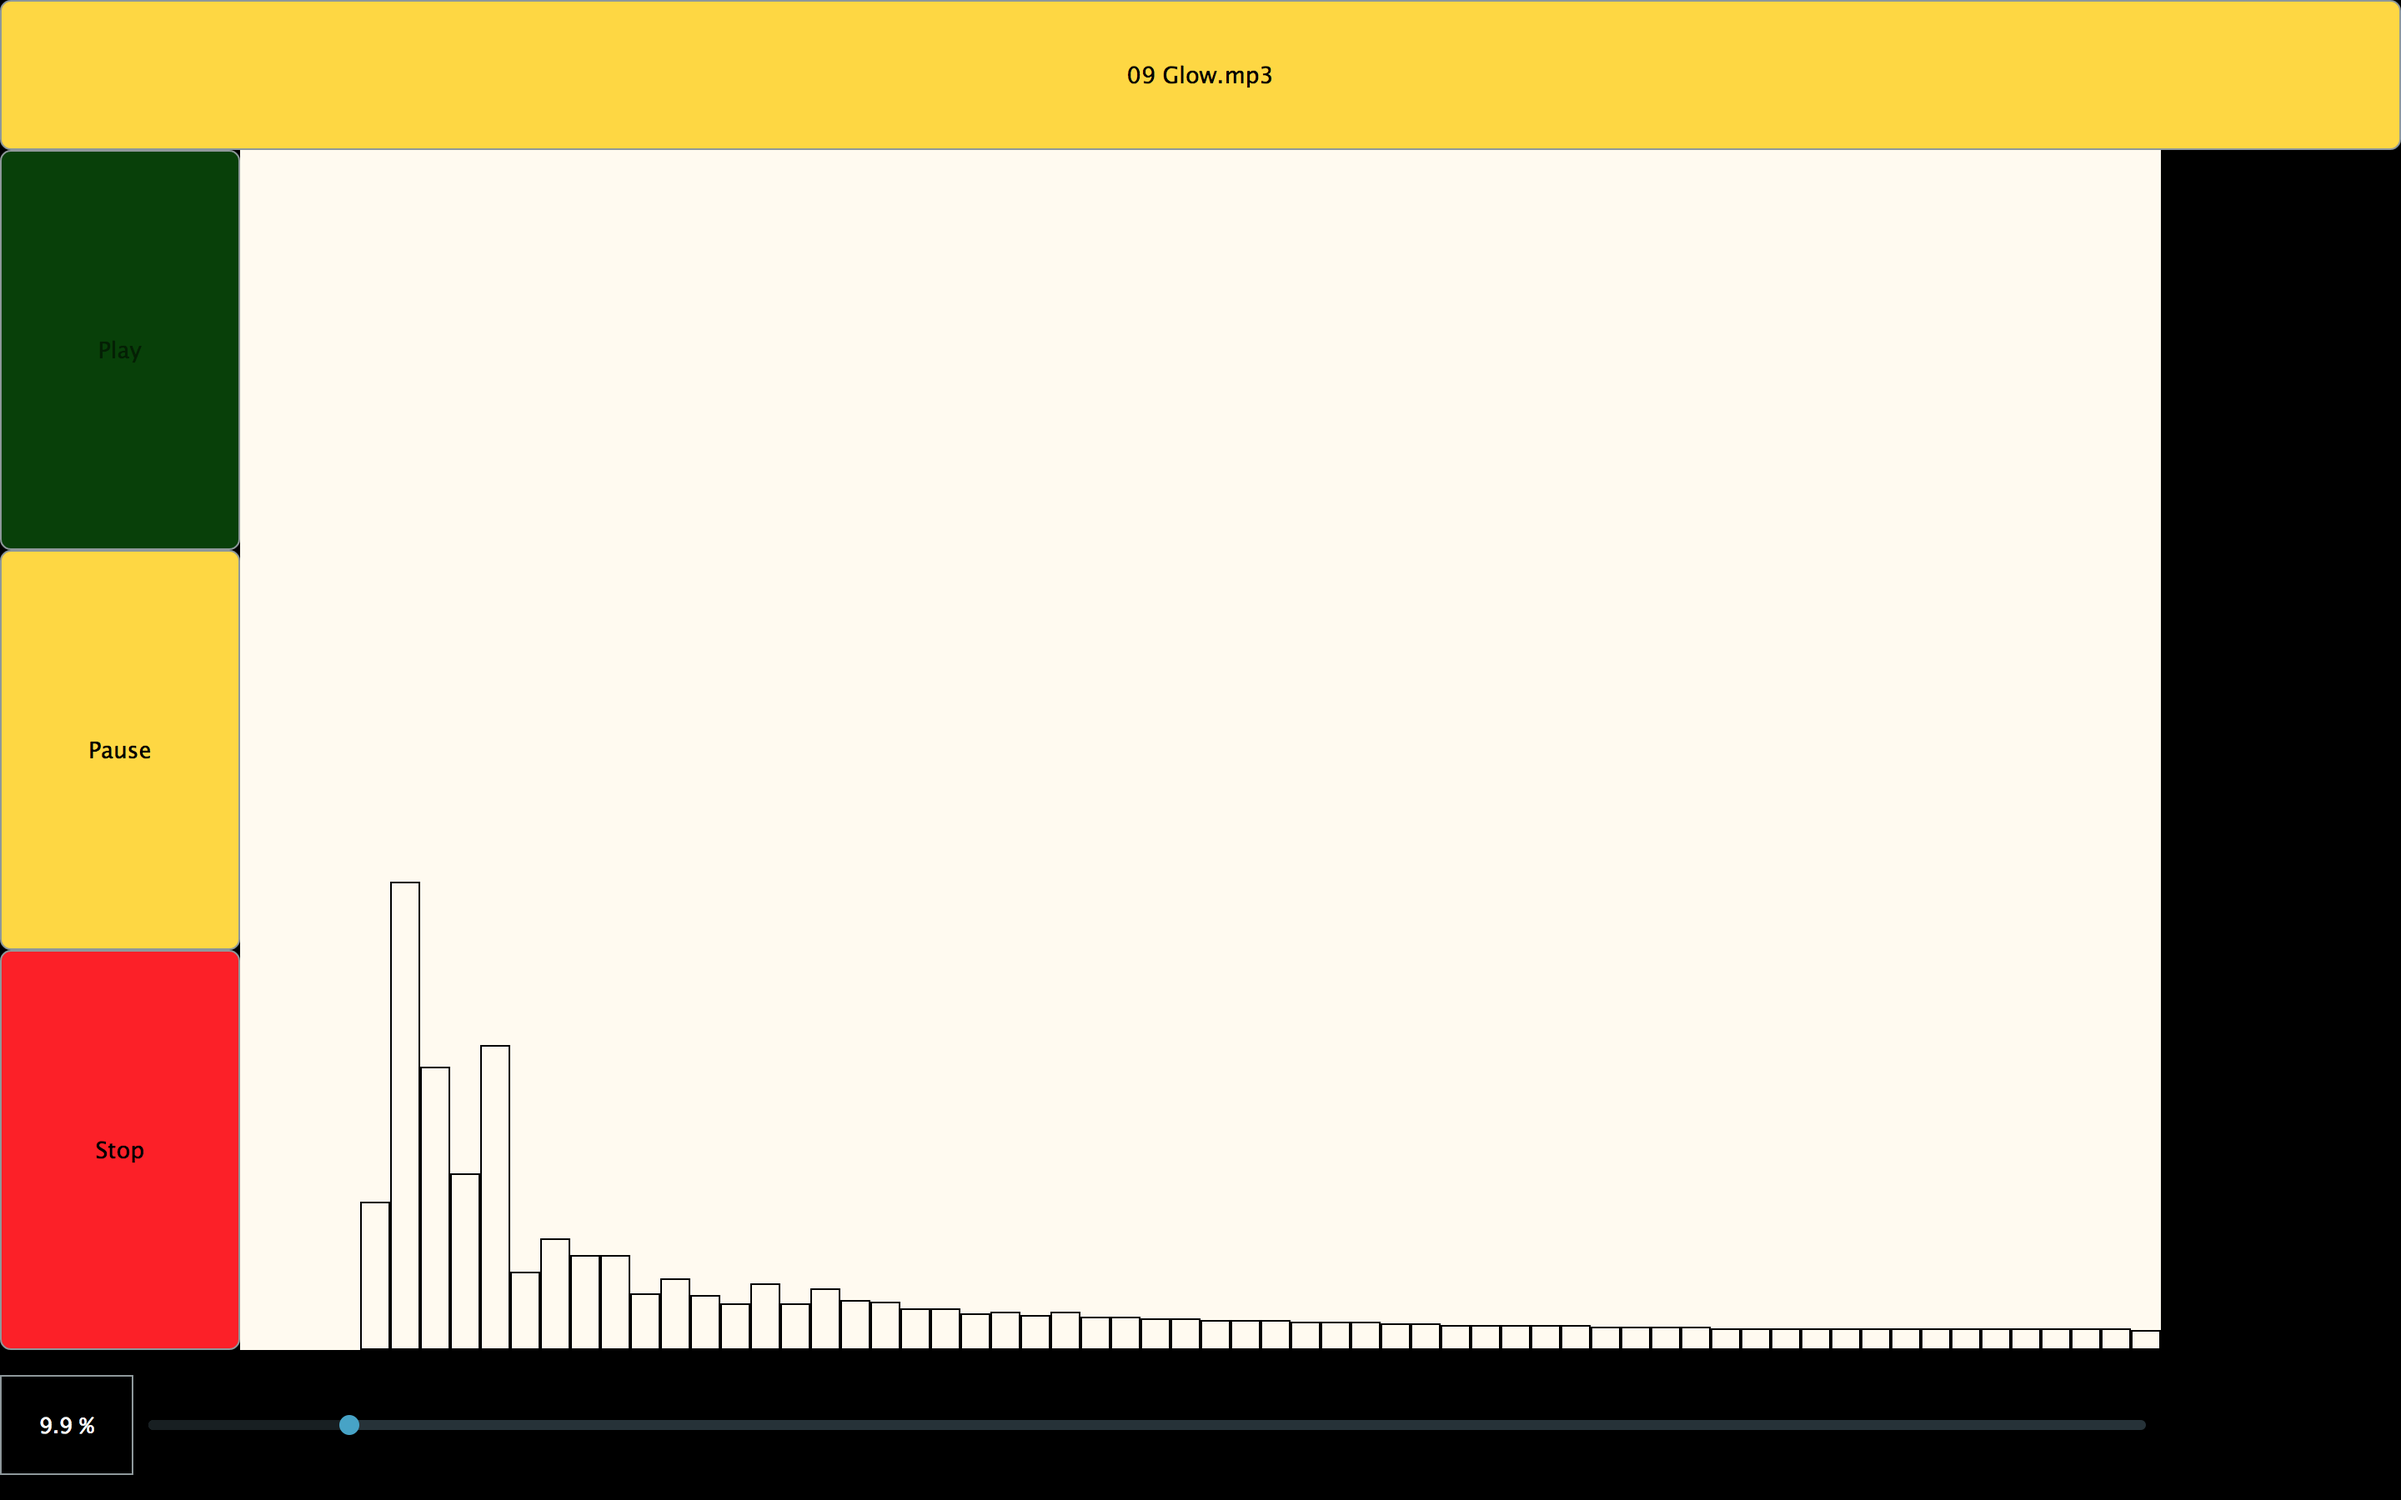
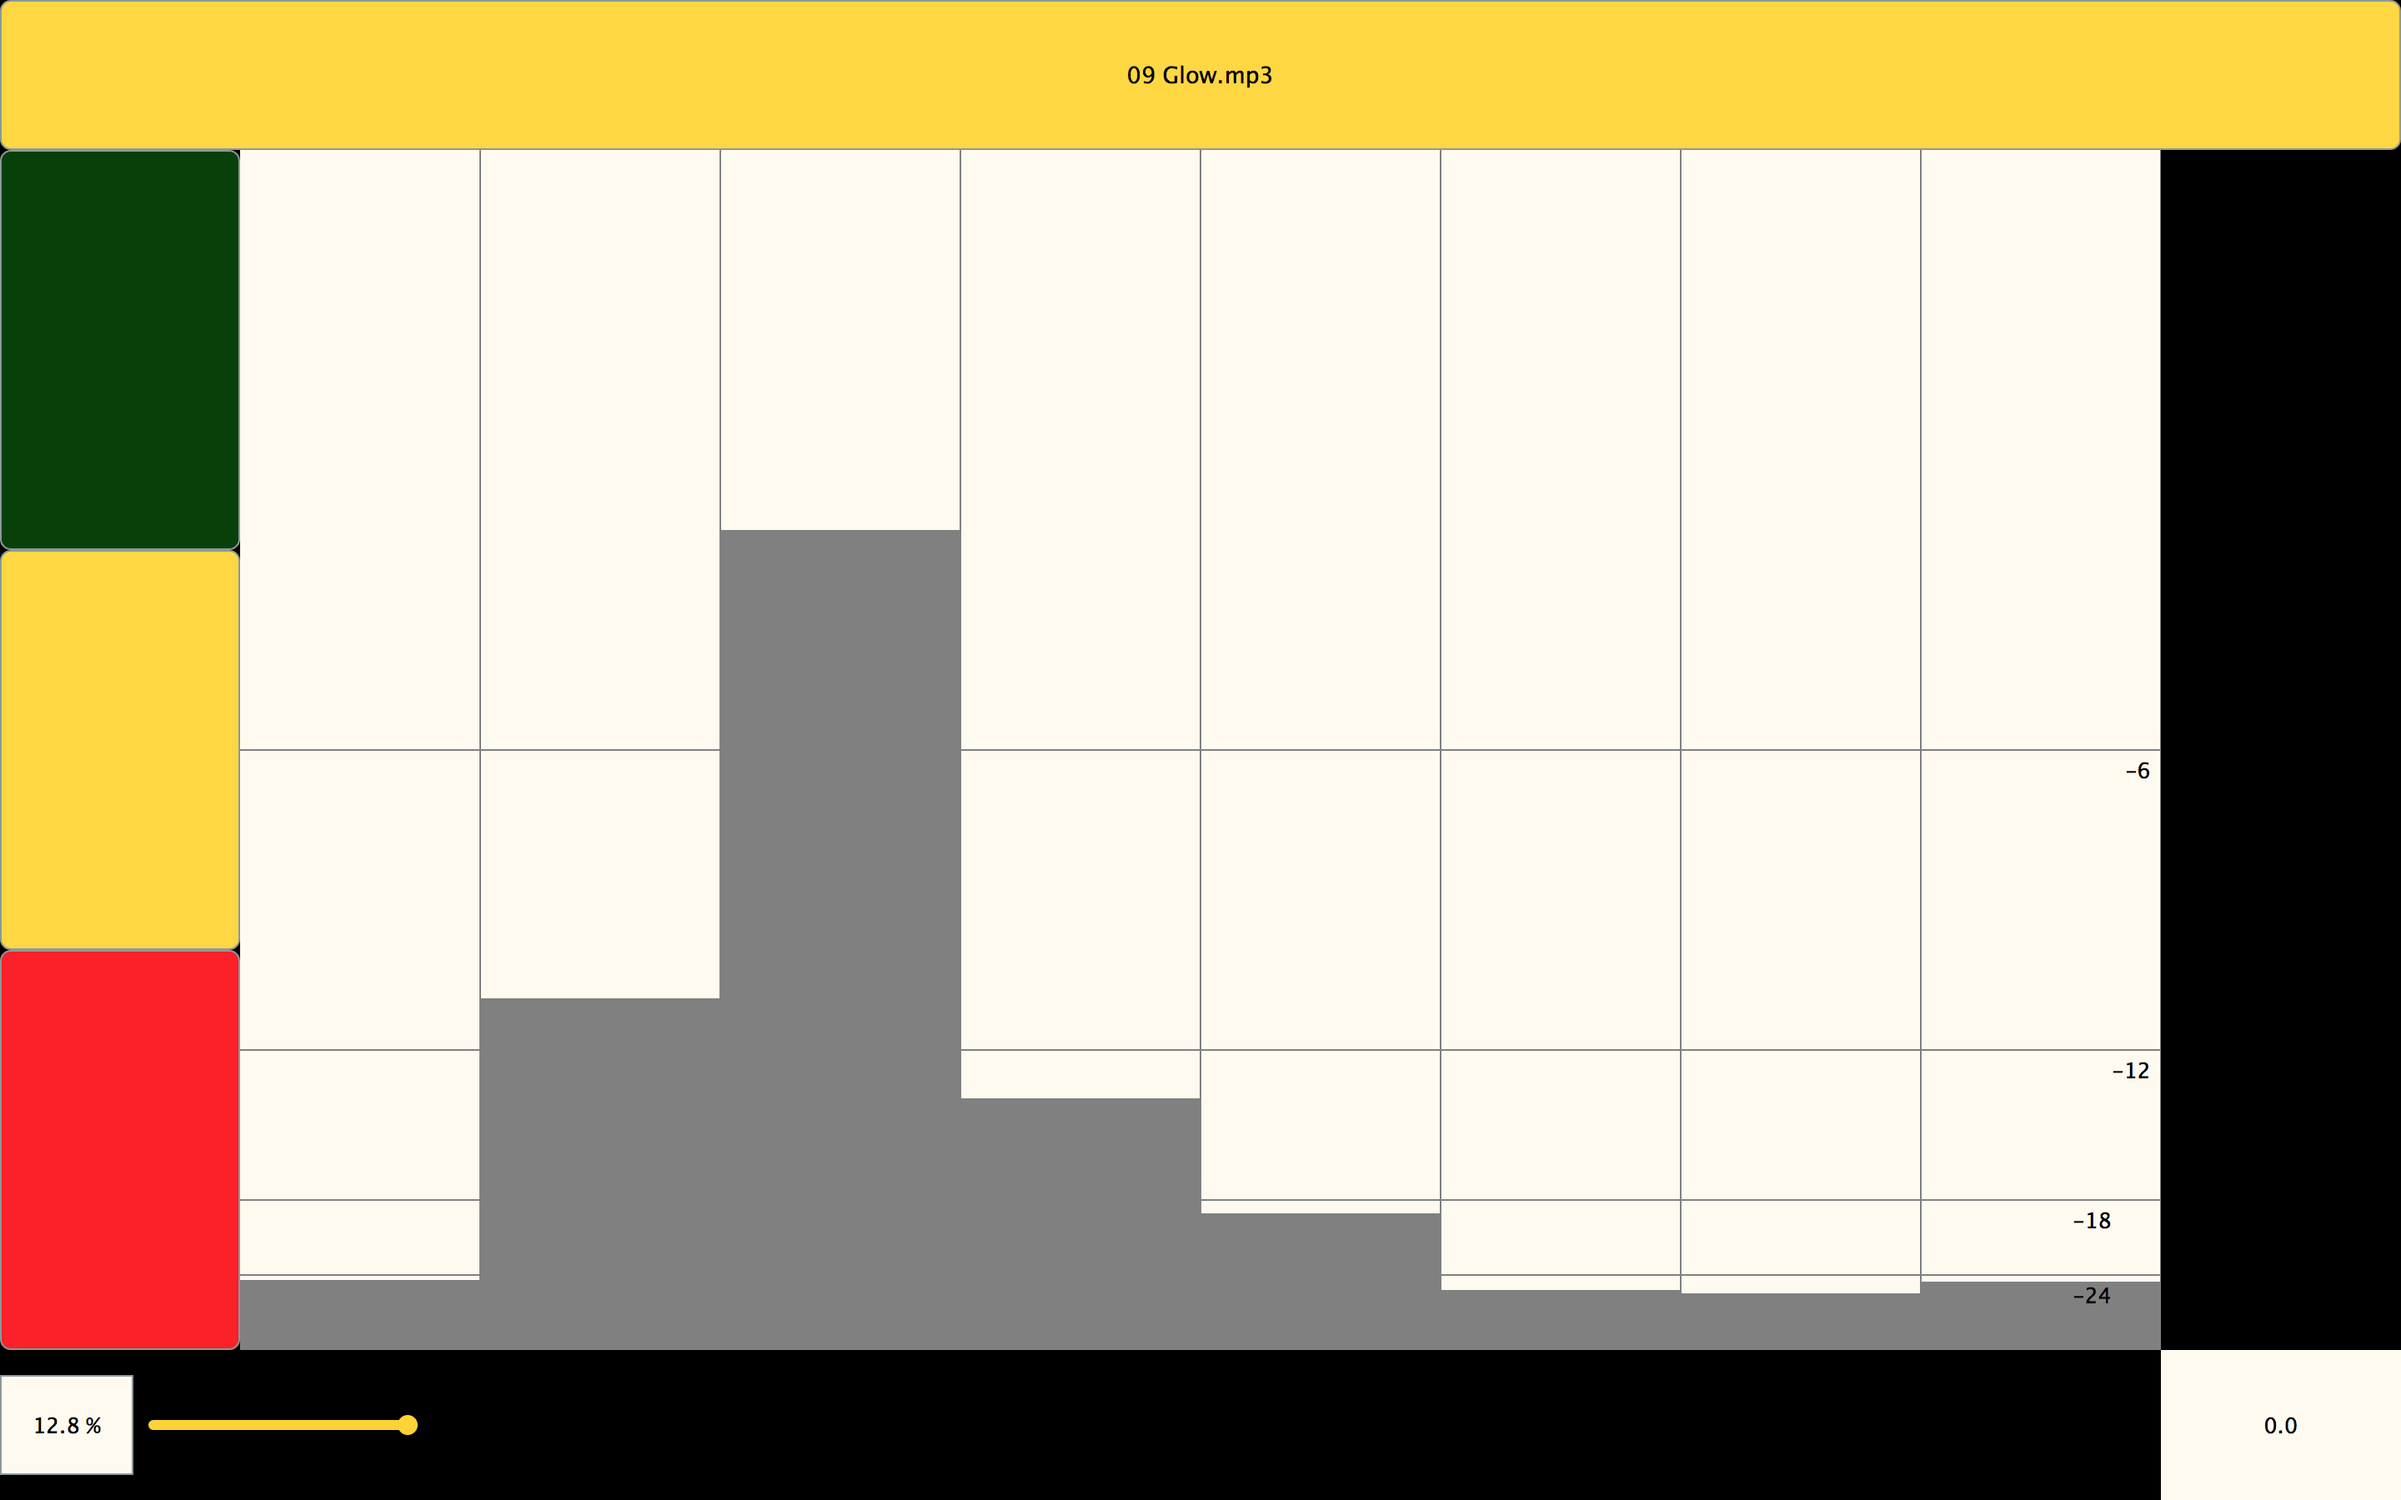
Improved spectrum display, updated app image, updated report

Changed region(s): [[0.0, 0.3422, 1.0, 1.0], [0.0312, 0.7467, 0.0625, 0.7778], [0.0312, 0.4978, 0.0625, 0.5289]]

diff --git a/Application/SpectralViewer/Source/SpectralViewComponent.cpp b/Application/SpectralViewer/Source/SpectralViewComponent.cpp
@@ -82,7 +82,9 @@ void SpectralViewComponent::createPeaks(float* bufferToFill, int bufferSize)
                          // see ResearchDSP.txt for a longer discussion.
     double step = static_cast<double>(componentWidth)/(orderFFT-1); // Width of each octave.
     
-    for( unsigned i = 0; i < orderFFT - 1; ++i ) // For each octave
+    std::cout << samplesForTransform[1] << "\n";
+    
+    for( unsigned i = 0; i < (orderFFT-1); ++i ) // For each octave
     {
         if( i > 0 )
         {
@@ -95,9 +97,18 @@ void SpectralViewComponent::createPeaks(float* bufferToFill, int bufferSize)
         
         for( unsigned j = halfLogScale; j < logscale; ++j) // For all the frequencies from the FFT in the octave.
         {
-            sum = sum + samplesForTransform[j]; // Sum them.
+            sum = sum + samplesForTransform[j + 1]; // Sum them.
         }
-        float average = sum/halfLogScale; // Then average them together.
+        
+        float average;
+        if( i > 0 )
+        {
+            average = sum/halfLogScale; // Then average them together.
+        }
+        else
+        {
+            average = sum;
+        }
         
         // Sets the height of each band (octave), scaled so that higher frequencies appear louder.
         int height =  logscale * average * componentHeight;

diff --git a/Application/SpectralViewer/Source/MainComponent.cpp b/Application/SpectralViewer/Source/MainComponent.cpp
@@ -63,7 +63,7 @@ MainComponent::MainComponent() :    state(Stopped),
     addAndMakeVisible(&volumeBox);
     
     // Sets the color of the volume box.
-    volumeBox.setColour(Label::backgroundColourId, Colours::white);
+    volumeBox.setColour(Label::backgroundColourId, Colours::floralwhite);
     volumeBox.setColour(Label::textColourId, Colours::black);
     volumeBox.setText("0.0", dontSendNotification);
     volumeBox.setJustificationType(juce::Justification::centred);
@@ -77,7 +77,7 @@ MainComponent::MainComponent() :    state(Stopped),
     transportProgress.setColour(juce::Slider::backgroundColourId, Colours::black);
     transportProgress.setColour(juce::Slider::trackColourId, Colour(255,212,22));
     transportProgress.setColour(juce::Slider::thumbColourId, Colour(255,212,22));
-    transportProgress.setColour(juce::Slider::textBoxBackgroundColourId, Colours::white);
+    transportProgress.setColour(juce::Slider::textBoxBackgroundColourId, Colours::floralwhite);
     transportProgress.setColour(juce::Slider::textBoxTextColourId, Colours::black);
     
     // Customizes the style and range of the rotary dial.

diff --git a/README.md b/README.md
@@ -1,12 +1,11 @@
 # Final Project
 This repository contains the source files I used to create my application, a report of my research, and links to websites that I found useful.
 
-* The application is a cross-platform audio spectrum analyzer. Some features include:
-    * 1/3, 1/6, and 1/12th octave views.
-    * Apply an arbitrary octave slope to the graph.
-    *
-    *
-    *
+* The application is a cross-platform audio spectrum analyzer. It has the following features:
+    * Loads in common audio file types (.mp3, .wav, etc.) for playback.
+    * Has a transport bar displaying the position in the audio file.
+    * Shows nine octaves.
+    
 * I made this project using the JUCE framework, which specializes in creating audio applications for use in music.
 
 ## To Compile the Project Yourself
